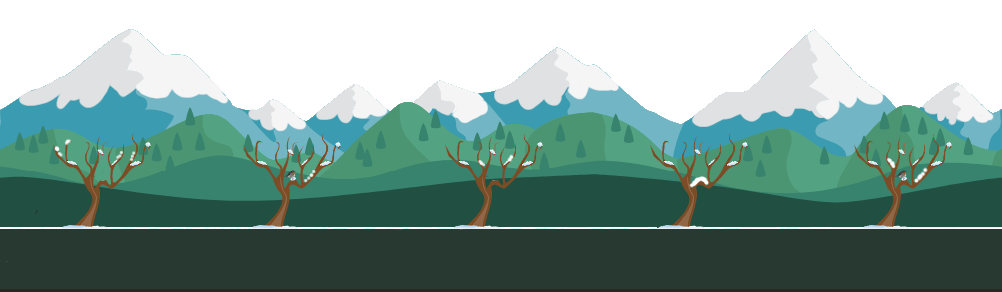
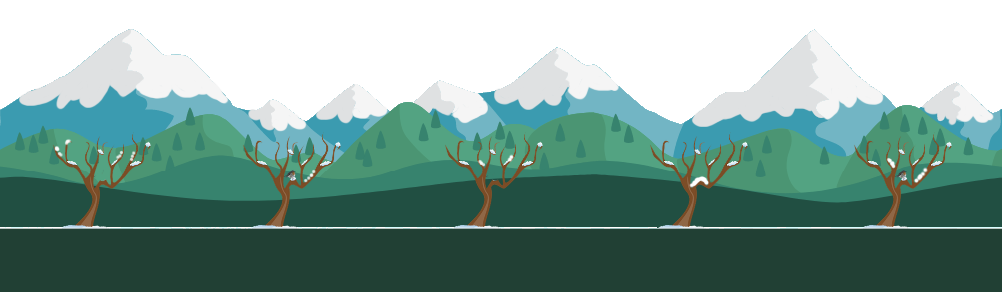
Improved mountain fade effect

Changed region(s): [[0.0, 0.9863, 1.0, 1.0], [0.0, 0.7705, 1.0, 0.8014]]

diff --git a/Frontend/tree-planters/src/domain/DefaultDashboard/DefaultDashboard.js b/Frontend/tree-planters/src/domain/DefaultDashboard/DefaultDashboard.js
@@ -1,9 +1,11 @@
-import React, { useState, useEffect } from 'react';
+import React, { useState } from 'react';
 import Button from '../../components/Button';
 import './DefaultDashboard.css';
 import Lottie from 'react-lottie';
 import circularAnimation from '../../lotties/21751-circular-progress-bar.json';
 import windmillAnimation from '../../lotties/15422-wind-mill-animation.json';
+import Fade from '@material-ui/core/Fade';
+import useInterval from '../../hooks/useInterval';
 
 const TREES_PLANTED = 1000; //! TEMP VALUE
 const CARBON_SAVED = 10; //! TEMP VALUE
@@ -19,51 +21,51 @@ const lottieWindmill = {
 	loop: true,
 	autoplay: true,
 	animationData: windmillAnimation,
-}
+};
 
 const DefaultDashboard = ({ openDonateModal }) => {
-	const [index, setIndex] = useState(0);
-	const imageList = ['summer.png', 'autumn.png', 'winter.png', 'spring.png'];
+	const [imageIndex, setImageIndex] = useState(0);
 
-	useEffect(() => {
-		const timer = setInterval(() => {
-			setIndex((index) => index + 1);
-		}, 5000);
-		return () => {
-			clearInterval(timer);
-		};
-	}, []);
+	useInterval(() => {
+		setImageIndex((imageIndex + 1) % 4);
+	}, 3000);
 
 	return (
 		<div className='DefaultDashboard'>
 			<div
-				style={{
-					marginTop: '60px',
-					backgroundImage: `url(${imageList[index % 4]})`,
-					backgroundRepeat: 'repeat-x',
-					height: '292px',
-					position: 'absolute',
-					zIndex: '-5',
-					width: '100vw',
-					left: '50%',
-					right: '50%',
-					marginLeft: '-50vw',
-					marginRight: '-50vw',
-					bottom: '0',
-				}}
-			>
-				<img src={imageList[index % 4]} alt='' />
-			</div>
+				className='Mountains'
+				style={{ backgroundImage: 'url(grass.png)' }}
+			/>
+			<Fade in={imageIndex === 0} timeout={1000}>
+				<div
+					className='Mountains'
+					style={{ backgroundImage: 'url(summer.png)' }}
+				/>
+			</Fade>
+			<Fade in={imageIndex === 1} timeout={1000}>
+				<div
+					className='Mountains'
+					style={{ backgroundImage: 'url(autumn.png)' }}
+				/>
+			</Fade>
+			<Fade in={imageIndex === 2} timeout={1000}>
+				<div
+					className='Mountains'
+					style={{ backgroundImage: 'url(winter.png)' }}
+				/>
+			</Fade>
+			<Fade in={imageIndex === 3} timeout={1000}>
+				<div
+					className='Mountains'
+					style={{ backgroundImage: 'url(spring.png)' }}
+				/>
+			</Fade>
 
-			<div
-				id='windmill1'
-			>
+			<div id='windmill1'>
 				<Lottie options={lottieWindmill} />
 			</div>
 
-			<div
-				id='windmill2'
-			>
+			<div id='windmill2'>
 				<Lottie options={lottieWindmill} />
 			</div>
 
@@ -148,10 +150,7 @@ const DefaultDashboard = ({ openDonateModal }) => {
 				</li>
 			</ul>
 
-			<Button
-				color={'#00552a'}
-				onClick={openDonateModal}
-			>
+			<Button color={'#00552a'} onClick={openDonateModal}>
 				Donate Today
 			</Button>
 		</div>

diff --git a/Frontend/tree-planters/src/domain/DefaultDashboard/DefaultDashboard.css b/Frontend/tree-planters/src/domain/DefaultDashboard/DefaultDashboard.css
@@ -78,7 +78,6 @@
 .statisticName {
 	position: relative;
 	top: -45px;
-	
 }
 
 #windmill1 {
@@ -90,7 +89,7 @@
 	right: 50%;
 	margin-left: -50vw;
 	margin-right: -50vw;
-	bottom:37px;
+	bottom: 37px;
 }
 
 #windmill2 {
@@ -102,7 +101,7 @@
 	right: 50%;
 	margin-left: -50vw;
 	margin-right: -50vw;
-	bottom:30px;
+	bottom: 30px;
 }
 
 /* .DashboardCards img {
@@ -121,6 +120,20 @@
 
 .DashboardCards ul {
 	display: inline;
+}
+
+.Mountains {
+	margin-top: 60px;
+	background-repeat: repeat-x;
+	height: 292px;
+	position: absolute;
+	z-index: -5;
+	width: 100vw;
+	left: 50%;
+	right: 50%;
+	margin-left: -50vw;
+	margin-right: -50vw;
+	bottom: 0;
 }
 
 @media only screen and (max-width: 600px) {

diff --git a/Frontend/tree-planters/src/hooks/useInterval.js b/Frontend/tree-planters/src/hooks/useInterval.js
@@ -1,0 +1,21 @@
+import { useEffect, useRef } from 'react';
+
+export default function useInterval(callback, delay) {
+	const savedCallback = useRef();
+
+	// Remember the latest callback.
+	useEffect(() => {
+		savedCallback.current = callback;
+	}, [callback]);
+
+	// Set up the interval.
+	useEffect(() => {
+		function tick() {
+			savedCallback.current();
+		}
+		if (delay !== null) {
+			let id = setInterval(tick, delay);
+			return () => clearInterval(id);
+		}
+	}, [delay]);
+}
